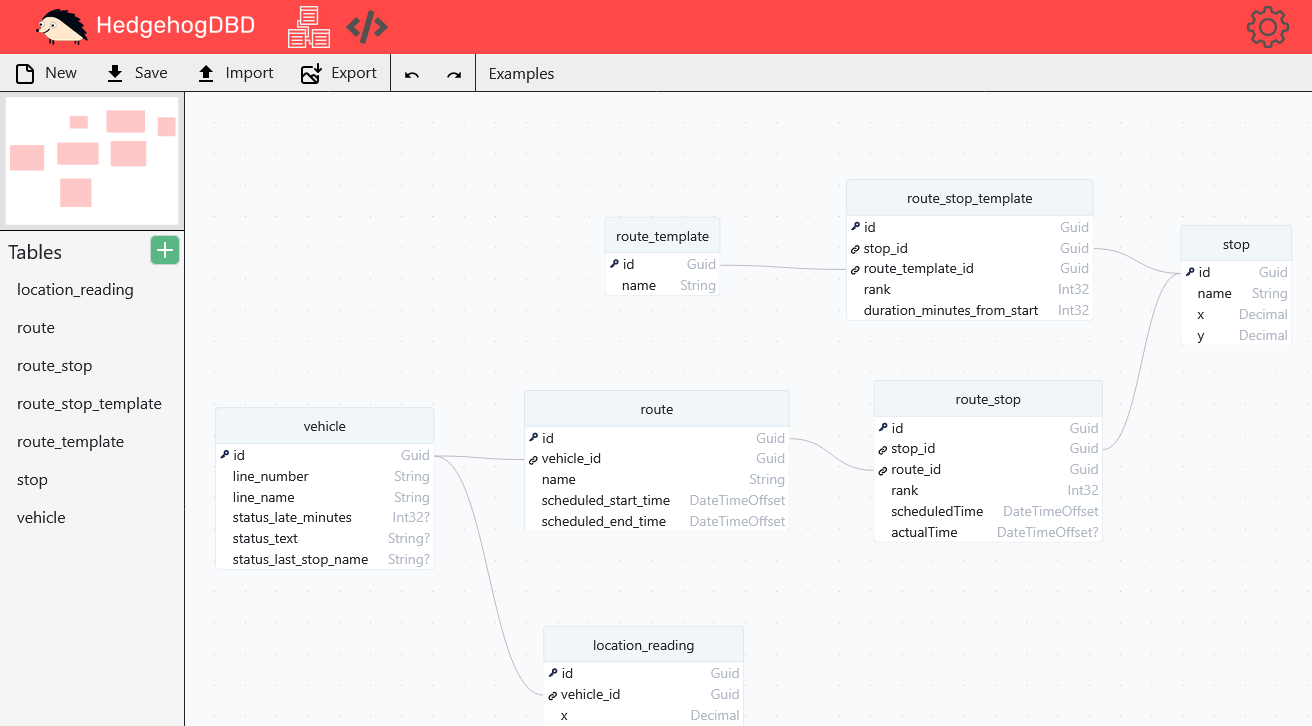
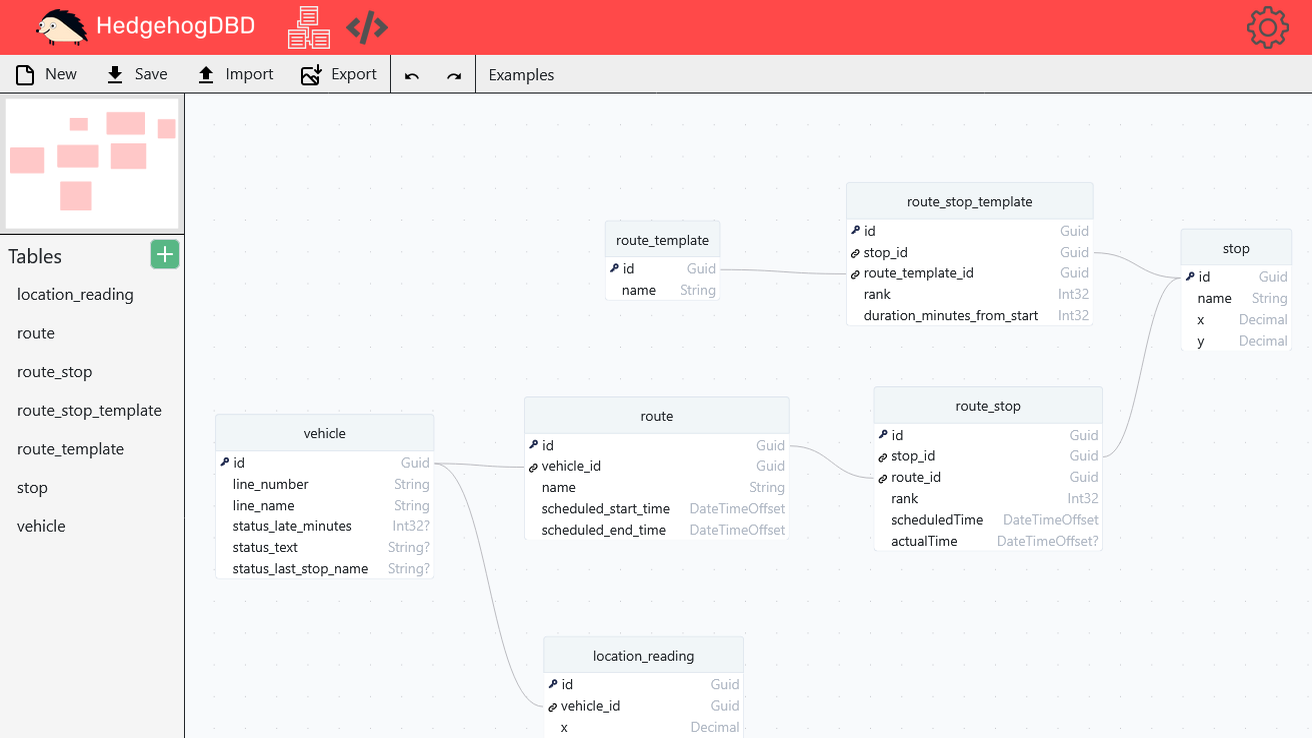
Update images to 16x9 aspect ratio and improve some images

diff --git a/src/posts/Estravel-metasearch.md b/src/posts/Estravel-metasearch.md
@@ -1,0 +1,15 @@
+---
+title: "Estravel Metasearch"
+subTitle: "Estravel Fullstack developer (JUNE 2026 - present)"
+slug: "estravel-metasearch"
+description: |
+    * Built an offer composition workspace for ~200 consultants across EE/LV/LT that unifies 3 distinct data sources - supplier APIs, text parsing and automated browsers
+    * Unified the consultant's daily toolkit into one workspace: CRM client lookup, aggregated offer search, hotel reviews, pricing engine, Gmail integration and a block-based offer editor
+
+    
+techStack: ["Python", "FastAPI", "RabbitMQ/Celery", "React", "PHP", "MySQL"]
+media:
+  src: "/static/img/posts/estravel-fullstack/meta.webm"
+  alt: "Estravel Metasearch"
+slugDirectory: "/posts/"
+---

diff --git a/src/posts/blog/advanced-query-params.md b/src/posts/blog/advanced-query-params.md
@@ -2,8 +2,8 @@
 slug: "advanced-query-params"
 title: "Advanced query params"
 slugDirectory: "blog/"
-thumbnail: ""
-intro: ""
+thumbnail: "/static/img/blog/advanced-query-params/thumbnail.png"
+intro: "How PHP, .NET, Spring, Laravel and Django each handle arrays and objects in URL query strings"
 tags: ["PHP", "JS", "Java", "Python"]
 minToRead: 6
 publishedDate: "25.05.2024"

diff --git a/src/posts/Charon.md b/src/posts/Charon.md
@@ -5,7 +5,7 @@ slug: "charon"
 description: "Charon is a Moodle plugin for programming assigments used by 1000 students every semester. It allows teachers to track student coding submissions, manage grading and provide feedback. I worked in an agile team at TalTech to improve plugin functionality."
 techStack: ["Laravel", "PHP", "Vue", "MariaDB"]
 media:
-  src: "/static/img/posts/charon/charon-task-description-headless-thumbnail.png"
+  src: "/static/img/posts/charon/charon-task-description-edited-16x9-thumbnail.png"
   alt: "Charon popup"
 slugDirectory: "/posts/"
 ---

diff --git a/src/posts/MaanteeametTimescanner.md b/src/posts/MaanteeametTimescanner.md
@@ -4,7 +4,7 @@ slug: "maanteeamet-timescanner"
 description: "Developed a web scraper for getting info from Maanteeamet e-service about available driving exam times."
 techStack: ["Python", "Selenium" ]
 media: 
-    src: "/static/img/posts/maanteeamet-timescanner/available-MTA-driving-exam-time-found.png"
+    src: "/static/img/posts/maanteeamet-timescanner/timescanner-story-16x9.png"
     alt: "Maanteeamet Timescanner"
 slugDirectory: "/posts/"
 ---

diff --git a/src/posts/Tempsens.md b/src/posts/Tempsens.md
@@ -5,7 +5,7 @@ slug: "tempsens"
 description: "Developed a full stack warehouse temperature and humidity monitoring system. Implemented SOAP and REST APIs for backend and chart visualization for frontend. Implemented binning and clustering algorithms for data visualization and alert observation."
 techStack: ["PHP", "SlimPHP", "JS", "Bootstrap", "MySQL"]
 media:
-    src: "/static/img/posts/tempsens/tempsens_version_1.1.2_thumbnail-3.png"
+    src: "/static/img/posts/tempsens/tempsens-story-16x9.png"
     alt: "tempsens"
 slugDirectory: "/posts/"
 ---